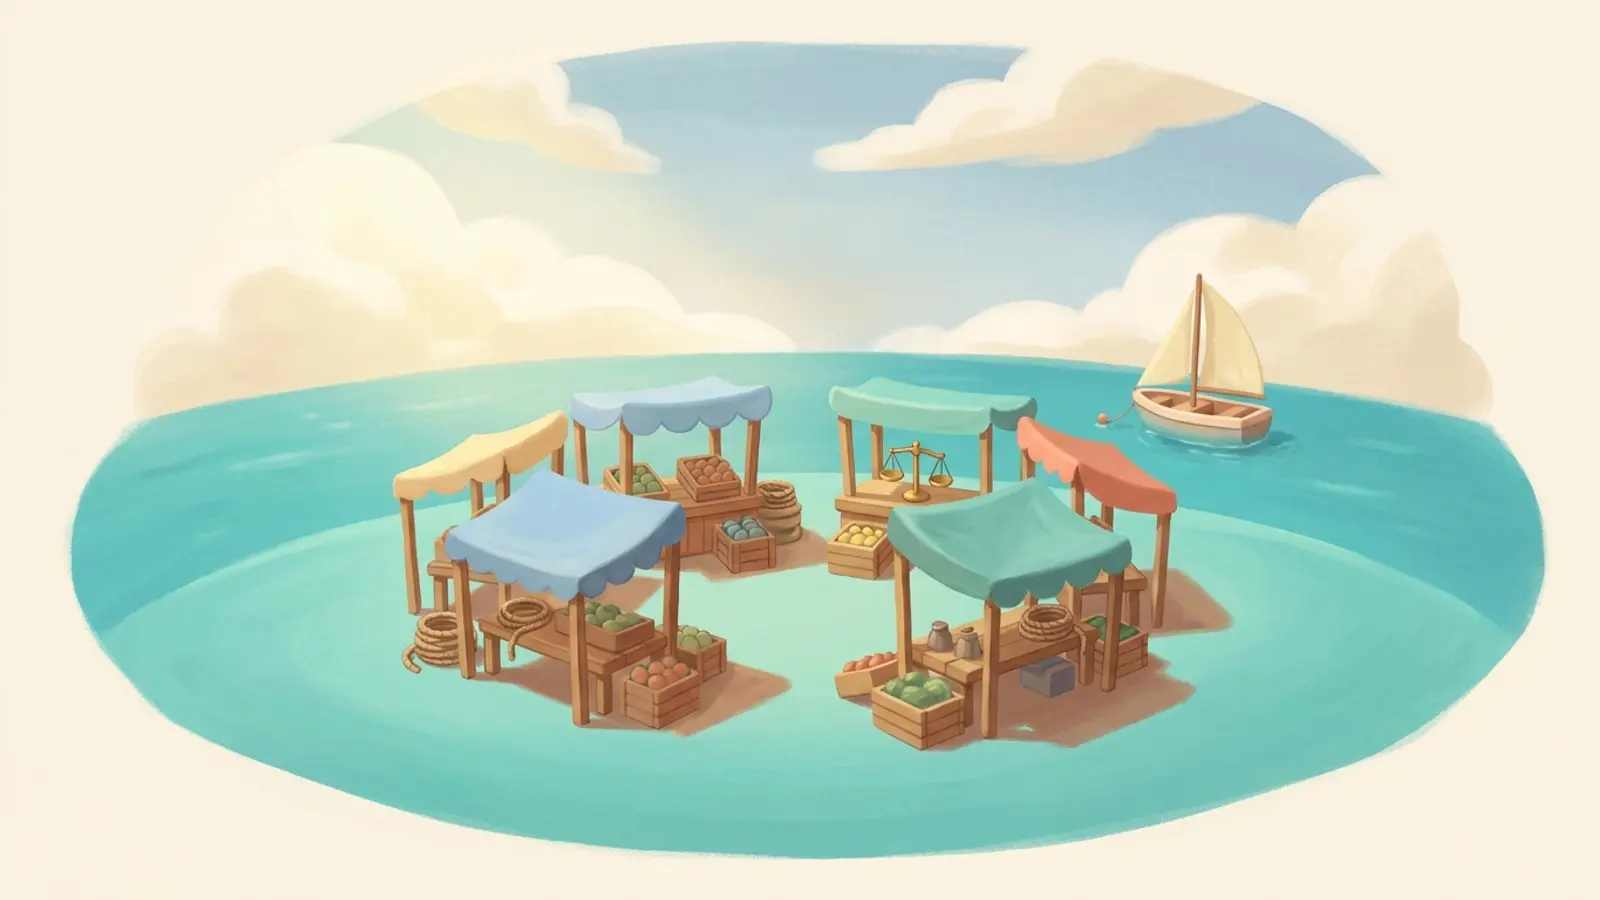
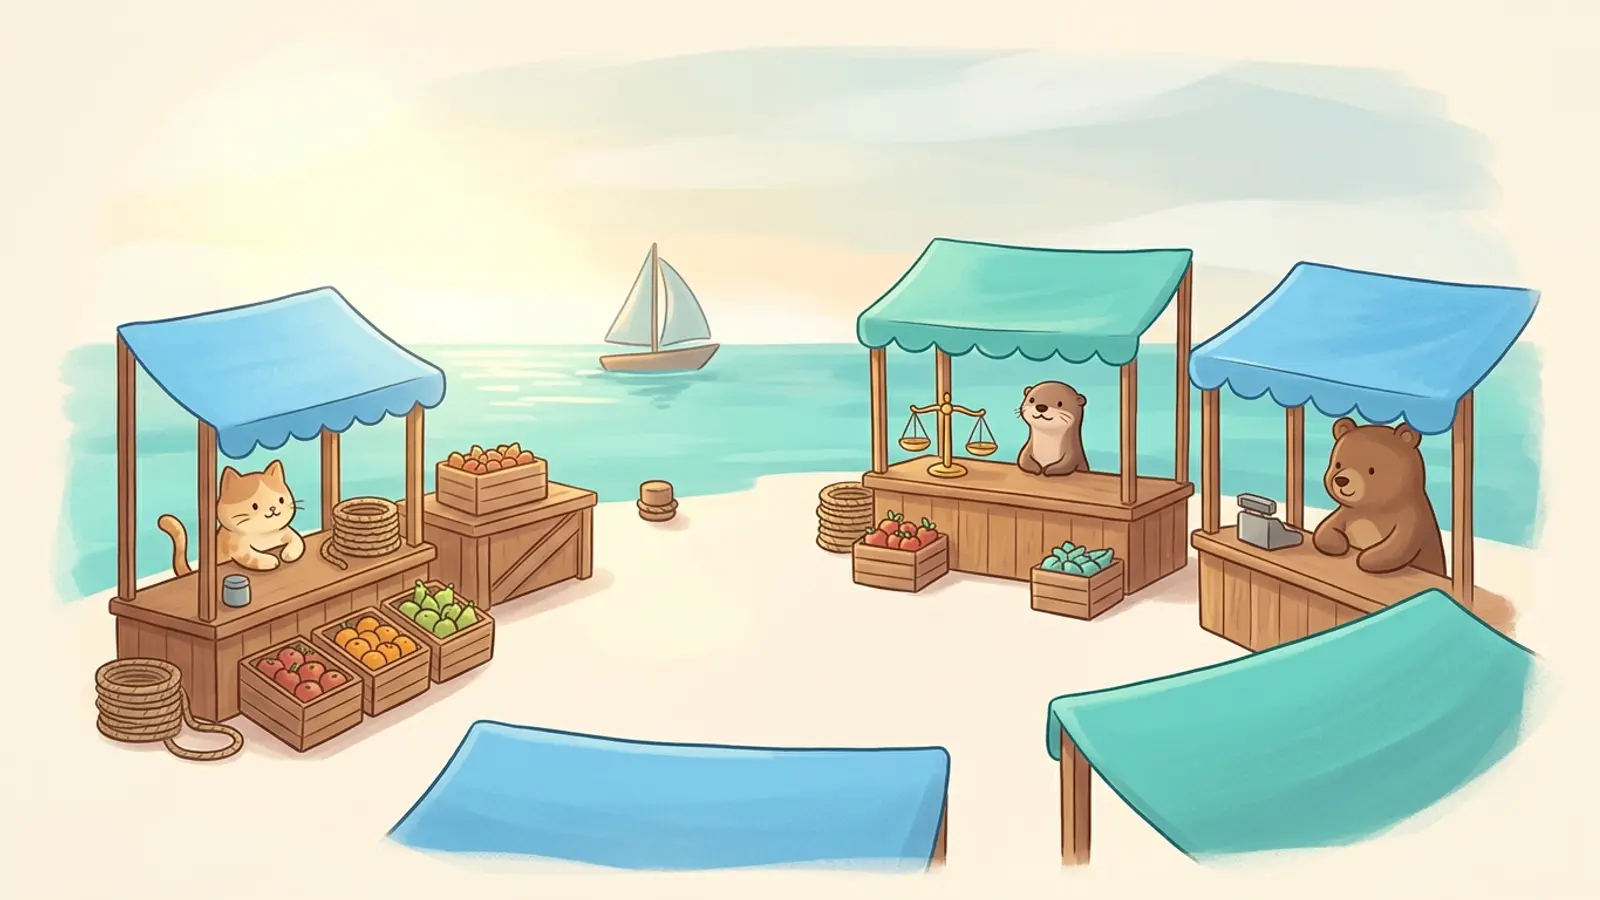
feat(v3): phase 6.1 -- hub illustré : 5 îles peintes (nano-banana-2), mer animée, éveil des îles (#8)
- générateur acté par vote famille : nano-banana-2 (docs + décor nombres alignés)
- 4 nouveaux décors d'île (sons, robots, monde, ailleurs) ≤ 60 Ko chacun, déclarés au manifest
- hub sous flag artV3 : fond mer animée CSS, en-têtes d'île peints, île désaturée tant
  qu'aucune partie n'y a été jouée (éveil progressif)
- 2 décors rejetés/régénérés par les garde-fous (style monde, budgets sons/robots)

diff --git a/src/world/Hub.tsx b/src/world/Hub.tsx
@@ -2,7 +2,7 @@ import { useEffect, useState } from 'react'
 import { Link } from 'react-router-dom'
 import { artUrl, decorFor } from '@/content/art.manifest'
 import { unlockAudio } from '@/engine/audio'
-import { gget } from '@/engine/storage'
+import { gget, pget } from '@/engine/storage'
 import { GAMES, ISLANDS } from '@/games.manifest'
 import { Mascot, SpeakerButton } from '@/ui'
 import DailyPath from '@/world/DailyPath'
@@ -27,7 +27,16 @@ const GAMES_BY_ISLAND: ReadonlyMap<IslandId, GameMeta[]> = new Map(
   }),
 )
 
-function IslandSection({ island, artV3 }: { island: IslandDef; artV3: boolean }) {
+function IslandSection({
+  island,
+  artV3,
+  awake,
+}: {
+  island: IslandDef
+  artV3: boolean
+  /** L'île « s'éveille » (décor en couleurs) dès qu'une partie y a été jouée. */
+  awake: boolean
+}) {
   const games = GAMES_BY_ISLAND.get(island.id) ?? []
   if (games.length === 0) return null
 
@@ -36,26 +45,32 @@ function IslandSection({ island, artV3 }: { island: IslandDef; artV3: boolean })
 
   return (
     <section aria-label={island.name}>
-      <div
-        className="flex items-center gap-4 rounded-3xl px-4 py-3 sm:px-5"
-        style={
-          decor
-            ? {
-                backgroundImage: `linear-gradient(120deg, rgba(253, 246, 236, 0.88), rgba(253, 246, 236, 0.45)), url(${artUrl(decor)})`,
-                backgroundSize: 'cover',
-                backgroundPosition: 'center 65%',
-              }
-            : {
-                backgroundImage: `linear-gradient(120deg, ${island.accent}2e, ${island.accent}10)`,
-              }
-        }
-      >
-        <span aria-hidden className="text-5xl sm:text-6xl">
-          {island.emoji}
-        </span>
-        <div>
-          <h2 className="text-xl font-extrabold sm:text-2xl">{island.name}</h2>
-          <p className="text-sm font-semibold text-ink-soft sm:text-base">{island.tagline}</p>
+      <div className="relative overflow-hidden rounded-3xl">
+        <div
+          aria-hidden
+          className="absolute inset-0"
+          style={
+            decor
+              ? {
+                  backgroundImage: `linear-gradient(120deg, rgba(253, 246, 236, 0.88), rgba(253, 246, 236, 0.45)), url(${artUrl(decor)})`,
+                  backgroundSize: 'cover',
+                  backgroundPosition: 'center 65%',
+                  filter: awake ? undefined : 'grayscale(0.75) brightness(1.04)',
+                  transition: 'filter 1.2s ease-out',
+                }
+              : {
+                  backgroundImage: `linear-gradient(120deg, ${island.accent}2e, ${island.accent}10)`,
+                }
+          }
+        />
+        <div className="relative flex items-center gap-4 px-4 py-3 sm:px-5">
+          <span aria-hidden className="text-5xl sm:text-6xl">
+            {island.emoji}
+          </span>
+          <div>
+            <h2 className="text-xl font-extrabold sm:text-2xl">{island.name}</h2>
+            <p className="text-sm font-semibold text-ink-soft sm:text-base">{island.tagline}</p>
+          </div>
         </div>
       </div>
       <div className="mt-3 grid grid-cols-2 gap-3 sm:grid-cols-3 sm:gap-4 lg:grid-cols-4">
@@ -69,6 +84,7 @@ function IslandSection({ island, artV3 }: { island: IslandDef; artV3: boolean })
 
 export default function Hub() {
   const [artV3, setArtV3] = useState(false)
+  const [awake, setAwake] = useState<ReadonlySet<IslandId>>(new Set())
 
   useEffect(() => {
     window.addEventListener('pointerdown', unlockAudio, { once: true })
@@ -76,8 +92,27 @@ export default function Hub() {
     return () => window.removeEventListener('pointerdown', unlockAudio)
   }, [])
 
+  // Une île s'éveille dès qu'une partie y a été jouée (sauvegarde par jeu).
+  useEffect(() => {
+    if (!artV3) return
+    let cancelled = false
+    void Promise.all(
+      ISLANDS.map(async (island) => {
+        const games = (GAMES_BY_ISLAND.get(island.id) ?? []).filter((g) => g.status === 'v2')
+        const saves = await Promise.all(games.map((g) => pget<{ runs?: number }>(`game:${g.id}`)))
+        return saves.some((s) => (s?.runs ?? 0) > 0) ? island.id : null
+      }),
+    ).then((ids) => {
+      if (!cancelled) setAwake(new Set(ids.filter((id): id is IslandId => id !== null)))
+    })
+    return () => {
+      cancelled = true
+    }
+  }, [artV3])
+
   return (
     <div className="relative mx-auto max-w-5xl px-4 pb-8 pt-12 sm:px-6">
+      {artV3 && <div aria-hidden className="archipel-sea fixed inset-0 -z-10" />}
       <Link
         to="/parents"
         className="absolute right-3 top-2 rounded-lg p-2 text-xs font-semibold text-ink-soft underline-offset-2 hover:underline"
@@ -102,7 +137,12 @@ export default function Hub() {
       <main className="mt-6 space-y-8">
         <DailyPath />
         {ISLANDS.map((island) => (
-          <IslandSection key={island.id} island={island} artV3={artV3} />
+          <IslandSection
+            key={island.id}
+            island={island}
+            artV3={artV3}
+            awake={awake.has(island.id)}
+          />
         ))}
       </main>
 

diff --git a/src/index.css b/src/index.css
@@ -113,6 +113,18 @@ body {
 @utility animate-shake-soft { animation: shake-soft 0.4s ease-in-out; }
 @utility animate-pulse-glow { animation: pulse-glow 1.8s ease-in-out infinite; }
 
+/* ---------- Hub illustré (chantier V3, flag artV3) : la mer de l'archipel ---------- */
+@keyframes sea-drift {
+  0%, 100% { background-position: 0 0, 0 0; }
+  50% { background-position: 70px 10px, -50px -8px; }
+}
+.archipel-sea {
+  background-image:
+    repeating-radial-gradient(ellipse 220px 60px at 30% 20%, rgba(95, 211, 200, 0.16) 0 2px, transparent 2px 90px),
+    repeating-radial-gradient(ellipse 260px 70px at 75% 70%, rgba(90, 184, 245, 0.12) 0 2px, transparent 2px 110px);
+  animation: sea-drift 14s ease-in-out infinite;
+}
+
 /* ---------- Plume 2.0 : rig SVG de la mascotte (groupes nommés) ---------- */
 .plume-part {
   transform-box: fill-box;

diff --git a/src/content/art.manifest.ts b/src/content/art.manifest.ts
@@ -18,7 +18,11 @@ export interface ArtAsset {
 }
 
 export const ART_ASSETS: ArtAsset[] = [
+  { path: 'art/sons/sons.hub.decor.webp', kind: 'decor', island: 'sons', game: 'hub' },
   { path: 'art/nombres/nombres.hub.decor.webp', kind: 'decor', island: 'nombres', game: 'hub' },
+  { path: 'art/robots/robots.hub.decor.webp', kind: 'decor', island: 'robots', game: 'hub' },
+  { path: 'art/monde/monde.hub.decor.webp', kind: 'decor', island: 'monde', game: 'hub' },
+  { path: 'art/ailleurs/ailleurs.hub.decor.webp', kind: 'decor', island: 'ailleurs', game: 'hub' },
 ]
 
 export function artUrl(asset: ArtAsset): string {

diff --git a/v3-proposition.md b/v3-proposition.md
@@ -75,9 +75,9 @@ dans `public/art/_palette/essais/` pour le vote famille.
 
 Migration **progressive comme la V2** (jamais de big-bang, chaque île est une release) :
 
-1. **Le hub-archipel** : carte du monde illustrée (mer animée, îles peintes qui
-   s'éveillent avec la progression — remplace les cartes blanches), transitions de
-   navigation (vol de Plume entre les îles).
+1. **Le hub-archipel** *(fait le 2026-06-10, sous flag `artV3` : mer animée CSS, 5 îles
+   peintes nano-banana-2, éveil à la première partie jouée sur l'île ; reste : transitions
+   vol de Plume entre les îles)*.
 2. **Île aux Nombres** (la plus jouée) : décors + personnages des 8 jeux (gloutons
    redessinés, marchand et clients, balance du magicien, lucioles…).
 3. **Île aux Sons** : 8 jeux (train, machine à écrire, village des mystères…).
@@ -123,9 +123,7 @@ vit à la maison) ; l'ancien rendu reste accessible par flag pendant la vague.
 
 - ✅ Stratégie graphique : hybride IA + SVG (2026-06-10).
 - ✅ Landing : `/decouvrir.html`, racine inchangée pour les enfants (2026-06-10).
-- ⏳ Choix du générateur d'images : planches générées (`public/art/_palette/essais/`,
-  nano-banana-2 / nano-banana-pro / flux-fast, même prompt) — vote famille à faire.
-  Défaut provisoire : nano-banana-pro.
+- ✅ Choix du générateur d'images : **nano-banana-2** (vote famille, 2026-06-10).
 - ⏳ Domaine dédié et hébergement Cloudflare : phase 7 (avec redirections GitHub Pages).
 - ⏳ Musiques par île : générer (IA), assembler (CC0) ou composer (Orchestre des
   Animaux propose déjà la matière sonore maison ?) — à explorer en phase 7.

diff --git a/art-direction.md b/art-direction.md
@@ -122,9 +122,9 @@ shadow beyond a soft oval, generous margins.
   on met à jour CE document et on régénère les planches d'essai.
 - Un prompt validé est figé ici avec son modèle. Régénérer un asset = même prompt,
   même modèle.
-- Générateur par défaut : `nano-banana-pro` (`google/gemini-3-pro-image-preview` via
-  OpenRouter) — provisoire jusqu'au vote famille sur les planches d'essai
-  (`public/art/_palette/essais/`).
+- Générateur retenu (vote famille, 2026-06-10) : `nano-banana-2`
+  (`google/gemini-3.1-flash-image-preview` via OpenRouter). Les planches d'essai
+  restent archivées dans `public/art/_palette/essais/`.
 
 ## 5. Les personnages (SVG riggé, jamais IA)
 
@@ -173,7 +173,6 @@ le marchand et ses clients, les animaux de l'orchestre.
 
 ## 9. Décisions ouvertes
 
-- ⏳ Choix définitif du générateur : vote famille sur les planches de
-  `public/art/_palette/essais/` (même prompt `nombres`, modèles différents).
+- ✅ Générateur : `nano-banana-2` (vote famille, 2026-06-10).
 - ⏳ Grain de papier : appliqué à la génération (dans le prompt) ou en overlay CSS
   commun ? À trancher au moment du hub illustré (phase 6).

diff --git a/scripts/generate-art.md b/scripts/generate-art.md
@@ -21,11 +21,11 @@ node ~/.claude/skills/openrouter-imagegen/scripts/generate-image.mjs \
   --prompt "<bloc maître §4> <prompt de l'asset>" \
   --negative "text, letters, numbers, watermark, signature, photo, 3D, glossy, neon, harsh shadows, black outlines, cluttered, scary, dark" \
   --aspect 16:9 \
-  --model nano-banana-pro \
+  --model nano-banana-2 \
   --output /tmp/art/<nom>.png
 ```
 
-- Modèle par défaut : `nano-banana-pro` (provisoire — vote famille en cours sur
+- Modèle retenu : `nano-banana-2` (vote famille 2026-06-10 — planches archivées dans
   `public/art/_palette/essais/`).
 - Décor : `--aspect 16:9`. Objet : `--aspect 1:1`.
 - Générer 2 à 4 candidats (relancer ; les seeds varient seules).